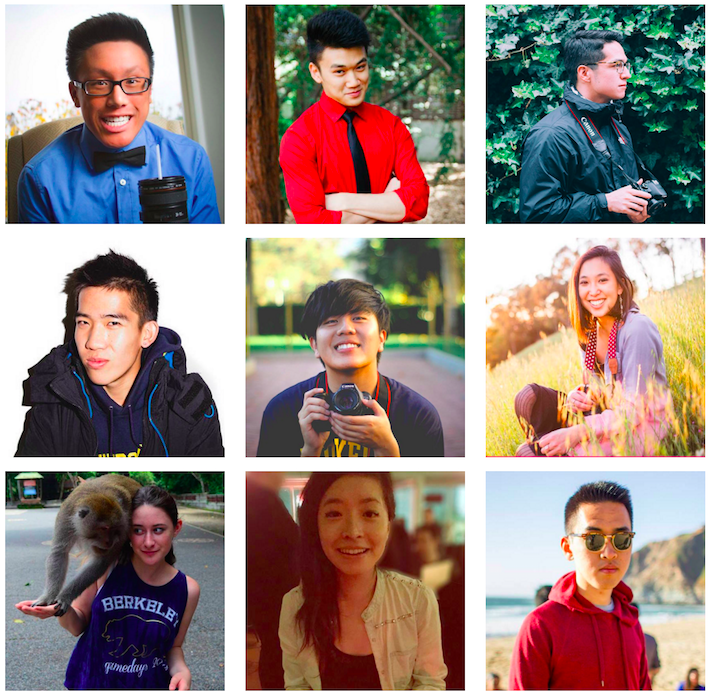
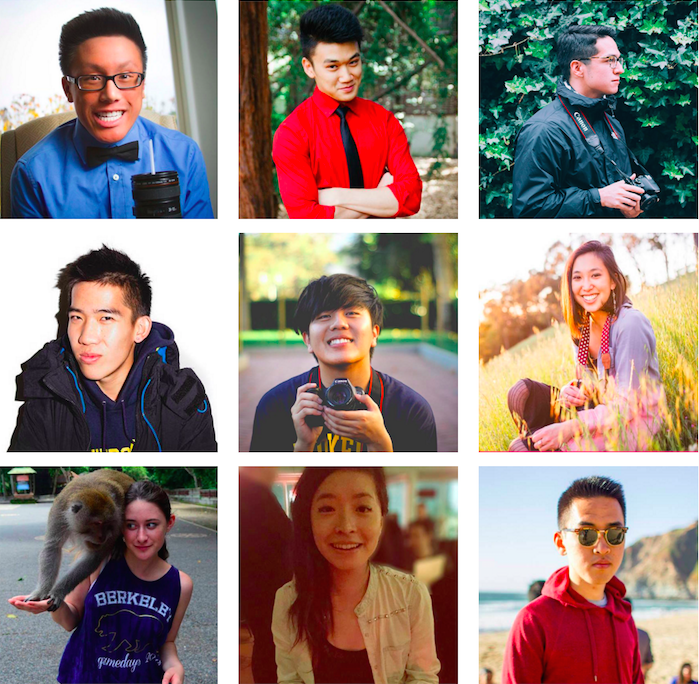
Added all the project pages and fixed about profile weirdness

diff --git a/dist/js/app.min.js b/dist/js/app.min.js
@@ -1,2 +1,2 @@
-var app=angular.module("julia",["ui.router","ngTouch","ngAnimate"]);app.run(["$rootScope","$state","$stateParams",function(e,t,o){e.$state=t,e.$stateParams=o}]),app.config(["$stateProvider","$urlRouterProvider","$locationProvider",function(e,t,o){o.html5Mode(!0),t.otherwise("/"),e.state("home",{url:"/",templateUrl:"./views/home.html",data:{pageTitle:"Julia Sun"}}).state("about",{url:"/about",templateUrl:"./views/about.html",data:{pageTitle:"Julia Sun"}}).state("projects",{url:"/projects",templateUrl:"./views/projects.html",data:{pageTitle:"Julia Sun"}})}]),app.controller("aboutCtrl",["$scope",function(){}]),app.controller("projectsCtrl",["$scope",function(e){e.projects=[{title:"Google Internship (Device Wall)",preview:"../assets/img/projects/device-wall/preview.png"},{title:"Personal Site Iteration",preview:"../assets/img/projects/personal/preview.png",link:""},{title:"InnoD Photo Tier Portfolio",preview:"../assets/img/projects/photo-portfolio/preview.png",link:""},{title:"Premed at Berkeley",preview:"../assets/img/projects/premed/preview.png",link:""}]}]);
+var app=angular.module("julia",["ui.router","ngTouch","ngAnimate"]);app.run(["$rootScope","$state","$stateParams",function(e,t,a){e.$state=t,e.$stateParams=a}]),app.config(["$stateProvider","$urlRouterProvider","$locationProvider",function(e,t,a){a.html5Mode(!0),t.otherwise("/"),e.state("home",{url:"/",templateUrl:"./views/home.html",data:{pageTitle:"Julia Sun"}}).state("about",{url:"/about",templateUrl:"./views/about.html",data:{pageTitle:"About | Julia Sun"}}).state("projects",{url:"/projects",templateUrl:"./views/projects.html",data:{pageTitle:"Work | Julia Sun"}}).state("dw",{url:"/dw",templateUrl:"./views/dw.html",data:{pageTitle:"Device Wall | Julia Sun"}}).state("photo",{url:"/photo",templateUrl:"./views/photo.html",data:{pageTitle:"Photo Portfolio | Julia Sun"}}).state("premed",{url:"/premed",templateUrl:"./views/premed.html",data:{pageTitle:"Premed at Berkeley | Julia Sun"}}).state("personal",{url:"/personal",templateUrl:"./views/personal.html",data:{pageTitle:"Personal Site | Julia Sun"}})}]),app.controller("aboutCtrl",["$scope",function(){}]),app.controller("projectsCtrl",["$scope",function(e){e.projects=[{title:"Device Wall",preview:"../assets/img/projects/device-wall/preview.png",link:"dw"},{title:"Personal Site Iteration",preview:"../assets/img/projects/personal/preview.png",link:"personal"},{title:"Photo Tier Portfolio",preview:"../assets/img/projects/photo-portfolio/preview.png",link:"photo"},{title:"Premed at Berkeley",preview:"../assets/img/projects/premed/preview.png",link:"premed"}]}]);
 //# sourceMappingURL=app.min.js.map

diff --git a/dist/css/style.min.css b/dist/css/style.min.css
@@ -898,6 +898,9 @@ body {
           float: right; }
         .about-page .about-wrapper .overview-wrapper:nth-child(1n+1) {
           clear: both; }
+        .about-page .about-wrapper .overview-wrapper .profile {
+          height: 850px;
+          background-position: center top; }
       .about-page .about-wrapper .info-wrapper {
         *zoom: 1;
         float: left;
@@ -970,8 +973,8 @@ body {
       left: 0;
       background: #333333;
       opacity: 0.8;
-      -webkit-transition: opacity 300ms;
-              transition: opacity 300ms; }
+      -webkit-transition: opacity 500ms;
+              transition: opacity 500ms; }
     .projects-page .projects-wrapper .project .title {
       text-align: center;
       position: absolute;
@@ -987,6 +990,39 @@ body {
       opacity: 0; }
     .projects-page .projects-wrapper .project:hover .title {
       display: none; }
+
+@media (max-width: 800px) {
+  .projects-page {
+    height: auto; }
+    .projects-page .projects-wrapper {
+      position: relative;
+      top: 0;
+      -webkit-transform: translateY(0);
+          -ms-transform: translateY(0);
+              transform: translateY(0); }
+      .projects-page .projects-wrapper .project {
+        *zoom: 1;
+        float: left;
+        clear: none;
+        text-align: inherit;
+        width: 100%;
+        margin-left: 0%;
+        margin-right: 3%; }
+        .projects-page .projects-wrapper .project:before, .projects-page .projects-wrapper .project:after {
+          content: '';
+          display: table; }
+        .projects-page .projects-wrapper .project:after {
+          clear: both; }
+        .projects-page .projects-wrapper .project:nth-child(2n) {
+          margin-right: 3%;
+          float: left; }
+        .projects-page .projects-wrapper .project:nth-child(2n+1) {
+          clear: none; }
+        .projects-page .projects-wrapper .project:nth-child(1n) {
+          margin-right: 0%;
+          float: right; }
+        .projects-page .projects-wrapper .project:nth-child(1n+1) {
+          clear: both; } }
 
 
 /*# sourceMappingURL=style.min.css.map */

diff --git a/src/js/app.js b/src/js/app.js
@@ -33,14 +33,42 @@ app.config(['$stateProvider',
                 url: '/about',
                 templateUrl: './views/about.html',
                 data: {
-                    pageTitle: 'Julia Sun'
+                    pageTitle: 'About | Julia Sun'
                 }
             })
             .state('projects', {
                 url: '/projects',
                 templateUrl: './views/projects.html',
                 data: {
-                    pageTitle: 'Julia Sun'
+                    pageTitle: 'Work | Julia Sun'
+                }
+            })
+            .state('dw', {
+                url: '/dw',
+                templateUrl: './views/dw.html',
+                data: {
+                    pageTitle: 'Device Wall | Julia Sun'
+                }
+            })
+            .state('photo', {
+                url: '/photo',
+                templateUrl: './views/photo.html',
+                data: {
+                    pageTitle: 'Photo Portfolio | Julia Sun'
+                }
+            })
+            .state('premed', {
+                url: '/premed',
+                templateUrl: './views/premed.html',
+                data: {
+                    pageTitle: 'Premed at Berkeley | Julia Sun'
+                }
+            })
+            .state('personal', {
+                url: '/personal',
+                templateUrl: './views/personal.html',
+                data: {
+                    pageTitle: 'Personal Site | Julia Sun'
                 }
             });
     }

diff --git a/src/js/controllers/projectsCtrl.js b/src/js/controllers/projectsCtrl.js
@@ -1,23 +1,24 @@
 app.controller('projectsCtrl', ['$scope', function($scope) {
     $scope.projects = [
         {
-            title: 'Google Internship (Device Wall)',
-            preview: '../assets/img/projects/device-wall/preview.png'
+            title: 'Device Wall',
+            preview: '../assets/img/projects/device-wall/preview.png',
+            link: 'dw'
         },
         {
             title: 'Personal Site Iteration',
             preview: '../assets/img/projects/personal/preview.png',
-            link: ''
+            link: 'personal'
         },
         {
-            title: 'InnoD Photo Tier Portfolio',
+            title: 'Photo Tier Portfolio',
             preview: '../assets/img/projects/photo-portfolio/preview.png',
-            link: ''
+            link: 'photo'
         },
         {
             title: 'Premed at Berkeley',
             preview: '../assets/img/projects/premed/preview.png',
-            link: ''
+            link: 'premed'
         }
     ];
 }]);

diff --git a/src/sass/pages/_projects.scss b/src/sass/pages/_projects.scss
@@ -24,7 +24,7 @@
                 left: 0;
                 background: $black;
                 opacity: 0.8;
-                transition: opacity 300ms;
+                transition: opacity 500ms;
             }
             .title {
                 text-align: center;
@@ -43,6 +43,18 @@
                 .title {
                     display: none;
                 }
+            }
+        }
+    }
+}
+
+@media (max-width: 800px) {
+    .projects-page {
+        height: auto;
+        .projects-wrapper {
+            @include undo-vertical-align();
+            .project {
+                @include col(1, 0, 1, 2);
             }
         }
     }

diff --git a/dist/views/projects.html b/dist/views/projects.html
@@ -1,6 +1,6 @@
 <div class="page-container projects-page modal" ng-controller="projectsCtrl">
     <div class="projects-wrapper">
-        <div class="project" ng-repeat="project in projects track by $index">
+        <div class="project" ng-repeat="project in projects track by $index" ui-sref="{{ project.link }}">
             <div class="preview" style="background-image:url('{{ project.preview }}')"></div>
             <div class="title">{{ project.title }}</div>
             <div class="overlay"></div>

diff --git a/src/views/projects.html b/src/views/projects.html
@@ -1,6 +1,6 @@
 <div class="page-container projects-page modal" ng-controller="projectsCtrl">
     <div class="projects-wrapper">
-        <div class="project" ng-repeat="project in projects track by $index">
+        <div class="project" ng-repeat="project in projects track by $index" ui-sref="{{ project.link }}">
             <div class="preview" style="background-image:url('{{ project.preview }}')"></div>
             <div class="title">{{ project.title }}</div>
             <div class="overlay"></div>

diff --git a/src/sass/pages/_about.scss b/src/sass/pages/_about.scss
@@ -80,6 +80,10 @@
                 @include col(1, 0, 1, 2);
                 height: 100%;
                 margin-bottom: 30px;
+                .profile {
+                    height: 850px;
+                    background-position: center top;
+                }
             }
             .info-wrapper {
                 @include col(1, 0, 1, 2);

diff --git a/dist/views/personal.html b/dist/views/personal.html
@@ -1,0 +1,3 @@
+<div class="page-container personal-page">
+    personal iteration description here
+</div>

diff --git a/src/views/personal.html b/src/views/personal.html
@@ -1,0 +1,3 @@
+<div class="page-container personal-page">
+    personal iteration description here
+</div>

diff --git a/dist/views/dw.html b/dist/views/dw.html
@@ -1,0 +1,3 @@
+<div class="page-container dw-page">
+    device wall description here
+</div>

diff --git a/src/views/dw.html b/src/views/dw.html
@@ -1,0 +1,3 @@
+<div class="page-container dw-page">
+    device wall description here
+</div>
